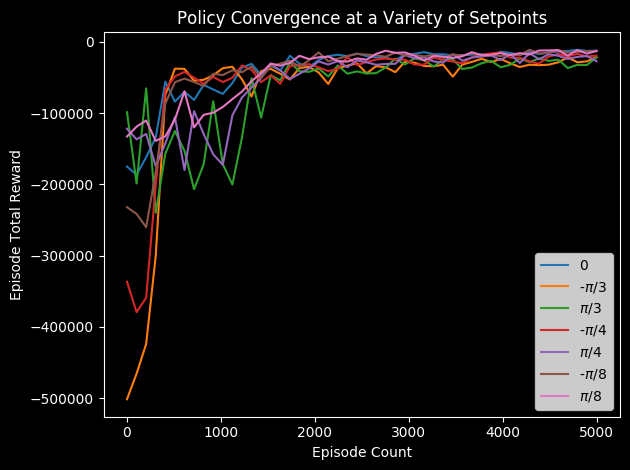
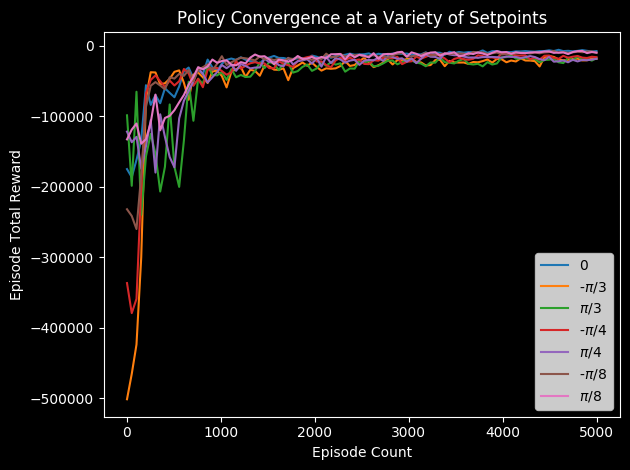
chabs

diff --git a/src/plotter.py b/src/plotter.py
@@ -132,15 +132,15 @@ def plot_convergence():
         cum_rewards = np.array(plotter.get_item('total_reward_arr'))
         ep_rewards = cum_rewards[1:] - cum_rewards[:-1]
         
-        ep_count = 5000
+        ep_count = 10000
         ep_rewards = ep_rewards[:int(ep_count/100)]
 
-        episode_arr = np.linspace(1, ep_count, len(ep_rewards))
+        episode_arr = np.linspace(1, 5000, len(ep_rewards))
 
         plotter.plot(ax, episode_arr, ep_rewards, label=goal_thetas[i])
         
     plotter.make_legend(ax)
-    # plotter.save()
+    plotter.save()
     plt.show()
 
 
@@ -474,6 +474,62 @@ def plot_learning_rate_study():
     plotter.save()
     plt.show()
 
+
+def plot_multiple_tracking():
+    load_directory = pb.Path('rory_data') / pb.Path('multiple_setpoint_tracking')
+    save_directory = pb.Path('plots')
+    save_name = pb.Path('mult_tracking')
+
+    plotter = Plotter(load_directory, save_directory, save_name)
+
+    load_name = [
+        '2019_12_2_4_12_47_ip_4.npy',
+        '2019_12_5_1_29_13_pi_4.npy',
+        '2019_12_1_18_24_43_0_1.npy',
+    ]
+    labels = [
+        r'-$\pi$/4',
+        r'$\pi$/4',
+        '0'
+    ]
+
+    fig, ax = plt.subplots(nrows=2)
+
+    title = 'Control Usage'
+    xlabel = 'Time (s)'
+    ylabel = 'Applied Torque (Nm)'
+
+    plotter.prepare_figure(fig, 'Multiple Setpoint Tracking Capability', height=1.05)
+    plotter.prepare_axis(ax[0], title, xlabel, ylabel)
+    
+    title = 'Pendulum Theta Error'
+    xlabel = 'Time (s)'
+    ylabel = 'Theta Error (rad)'
+
+    plotter.prepare_axis(ax[1], title, xlabel, ylabel)
+
+    for i in range(len(load_name)):
+
+        fname = load_name[i]
+        plotter.load_data(fname)
+
+        torque = np.array(plotter.get_item('torque_arr'))
+        el = len(torque)
+        torque = torque[:el]
+
+        err = np.array(plotter.get_item('theta_error_arr'))
+        err = err[:el]
+
+        t = np.linspace(0, el*.05, len(torque))
+
+        plotter.plot(ax[0], t, torque, label=labels[i])
+        plotter.plot(ax[1], t, err, label=labels[i])
+        
+    plotter.make_legend(ax[0], outside=True)
+    plotter.make_legend(ax[1], outside=True)
+    # plotter.save()
+    plt.show()
+
     
 if __name__ == '__main__':
     # plot_convergence()
@@ -482,5 +538,6 @@ if __name__ == '__main__':
     # plot_thdot_weight_study()
     # plot_thdot_weight_study_pi_4()
     # plot_gamma_study()
-    plot_learning_rate_study()
+    # plot_learning_rate_study()
+    plot_multiple_tracking()
 

diff --git a/src/simulate_policy.py b/src/simulate_policy.py
@@ -57,7 +57,7 @@ class Simulator():
 
     
     def load_policy(self):
-        policy = np.load(self.file)
+        policy = np.load(self.file, allow_pickle=True)
         return policy
 
     
@@ -201,7 +201,7 @@ class Simulator():
     
     def simulate(self, ep_num=500, iter_num=150, start_pos=None, start_vel=None):
         print(f'Running simulation using policy: {self.file}')
-
+        
         self.num_episodes = ep_num
         self.num_iterations = iter_num
         total_total_cost = 0
@@ -222,7 +222,7 @@ class Simulator():
 
                 for _ in range(self.num_iterations):
 
-                    self.env.render()
+                    # self.env.render()
 
                     self.theta_errors.append(self.goal_theta - th)
 
@@ -239,7 +239,7 @@ class Simulator():
                     th = nextTh
                     thdot = nextThdot
                 
-                    time.sleep(.05)
+                    # time.sleep(.05)
 
                 if i != self.num_episodes-1:
                     self.torques = []
@@ -256,10 +256,10 @@ class Simulator():
 
 def main():
     dummy_env = PendulumEnv()
-    start_pos = dummy_env.angle_limit
+    start_pos = -dummy_env.angle_limit
 
-    pol_dir = 'saved_policies'
-    fname = '2019_12_12_11_4_1_0_1.npy'
+    pol_dir = 'good_policies'
+    fname = '2019_12_2_4_12_47.npy'
     sim = Simulator(policy_directory=pol_dir, policy_name=fname)
     sim.simulate(ep_num=2, iter_num=200, start_pos=start_pos, start_vel=0)
     # sim.save_precious_simulated_data()
